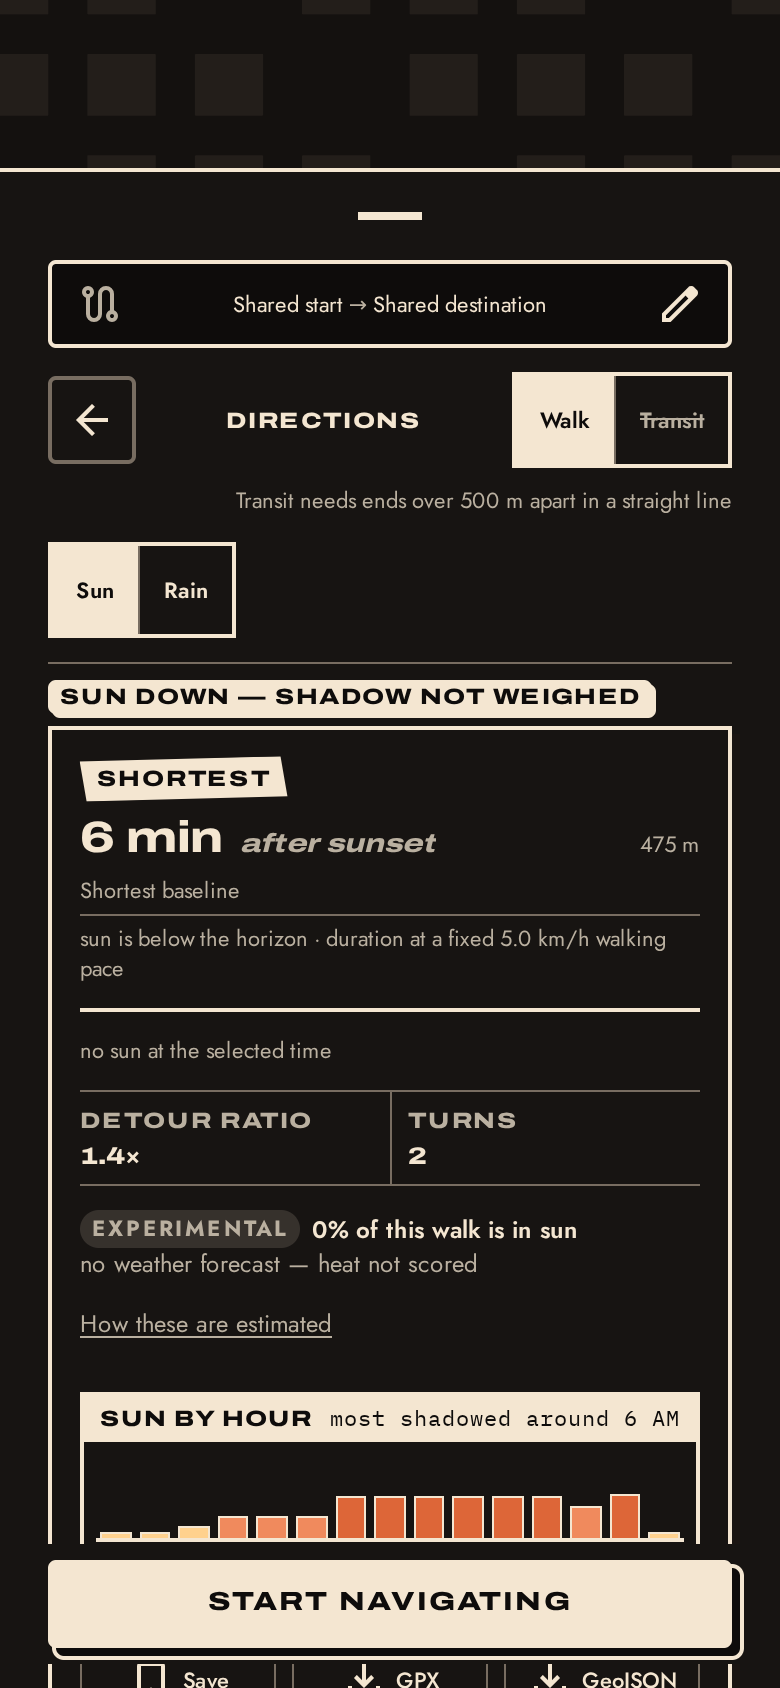
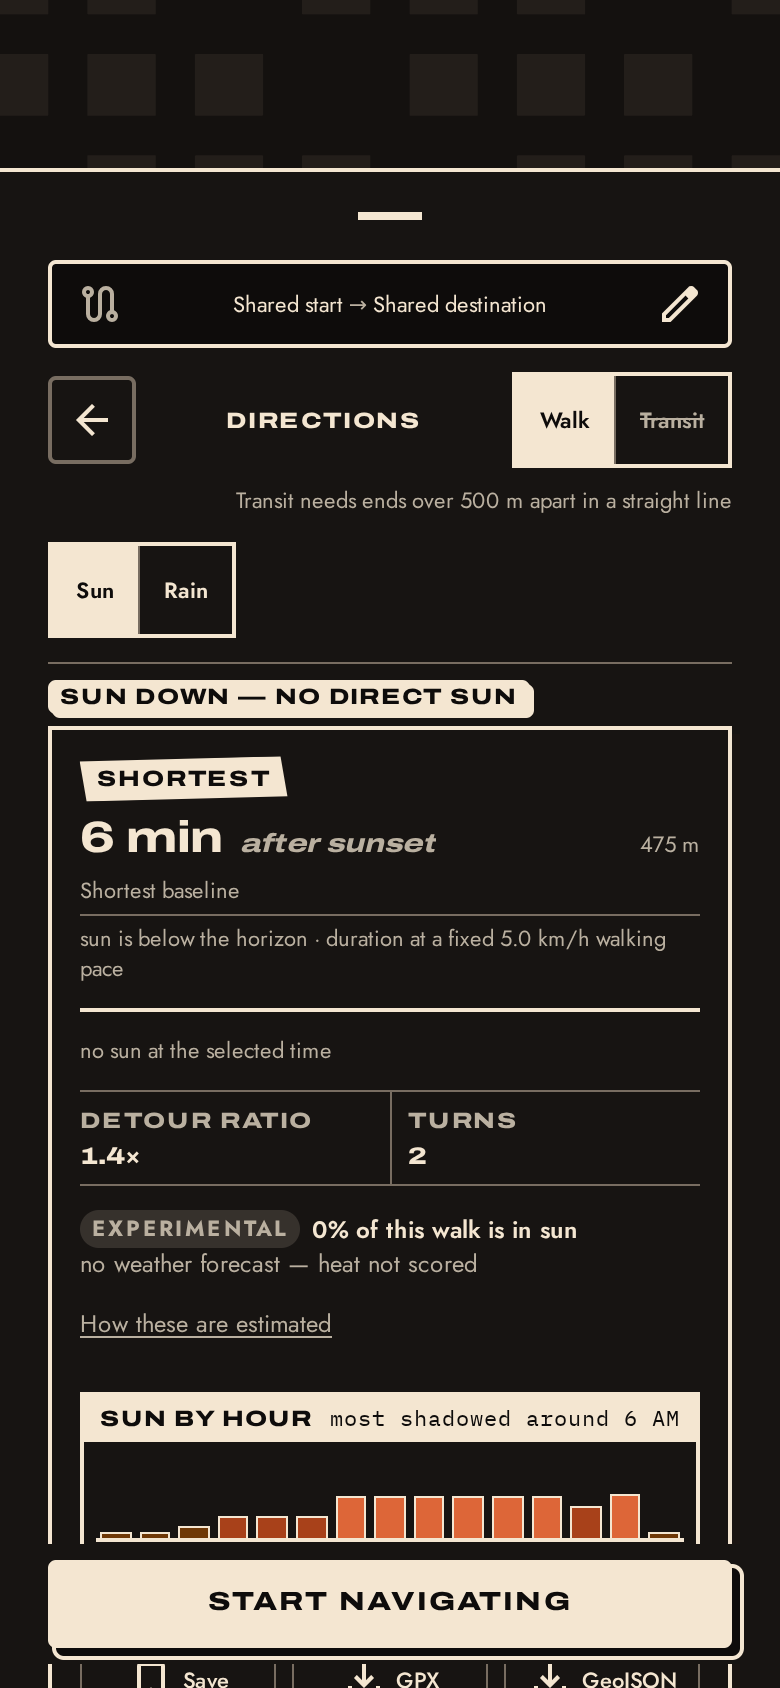
fix(design): ground the Sun down pill and keep the board's ramp legible at night
The pill no longer claims routing ignores shadow after sunset; a direct
walk's Pareto search never reads the intensity (#167). Board bars use ramp
step tokens that reverse at night, so the larger share is always the fill
with more contrast. The rain header wraps inside the desktop card, hour
buttons take an inset focus ring, and an hour without a reading says so
without the dash being read aloud.

Changed region(s): [[0.3692, 0.4005, 0.8615, 0.4313], [0.2462, 0.8934, 0.4308, 0.9242], [0.7385, 0.8934, 0.7692, 0.9242]]

diff --git a/app/components/__tests__/HourlyExposureStrip.test.tsx b/app/components/__tests__/HourlyExposureStrip.test.tsx
@@ -1,6 +1,7 @@
 /* @vitest-environment jsdom */
 import { cleanup, fireEvent, render, screen, within } from "@testing-library/react";
 import { afterEach, describe, expect, it, vi } from "vitest";
+import registryCss from "../../globals.css?raw";
 import type { HourlyExposure } from "../../hooks/useHourlyExposure";
 import type { HourlyExposureSample } from "../../lib/bestTime";
 import HourlyExposureStrip, { rampStep } from "../HourlyExposureStrip";
@@ -27,12 +28,12 @@ function strip(exposure: HourlyExposure, currentHour = 10, onPickHour = vi.fn())
 /** R6b: the hourly strip as a departures board. */
 describe("HourlyExposureStrip", () => {
   it("steps the five-step ramp by fifths of the share", () => {
-    expect(rampStep(0)).toBe("light");
-    expect(rampStep(0.19)).toBe("light");
-    expect(rampStep(0.2)).toBe("bright");
-    expect(rampStep(0.5)).toBe("base");
-    expect(rampStep(0.79)).toBe("dark");
-    expect(rampStep(1)).toBe("darker");
+    expect(rampStep(0)).toBe(1);
+    expect(rampStep(0.19)).toBe(1);
+    expect(rampStep(0.2)).toBe(2);
+    expect(rampStep(0.5)).toBe(3);
+    expect(rampStep(0.79)).toBe(4);
+    expect(rampStep(1)).toBe(5);
   });
 
   it("colours each sun bar by its ramp step and keys hours in 12-hour numerals", () => {
@@ -40,10 +41,10 @@ describe("HourlyExposureStrip", () => {
     strip({ samples, readyCount: 4, best: samples[0] });
     const bars = screen.getAllByTestId("hour-bar");
     expect(bars.map((b) => b.style.background)).toEqual([
-      "var(--color-sun-light)",
-      "var(--color-sun-base)",
-      "var(--color-sun-darker)",
-      "var(--color-sun-bright)",
+      "var(--color-sun-step-1)",
+      "var(--color-sun-step-3)",
+      "var(--color-sun-step-5)",
+      "var(--color-sun-step-2)",
     ]);
     expect(screen.getByText("Sun by hour")).toBeTruthy();
     expect(screen.getByText("most shadowed around 10 AM")).toBeTruthy();
@@ -71,7 +72,7 @@ describe("HourlyExposureStrip", () => {
     const pending = screen.getByRole("button", { name: "11 AM: unavailable for recommendation" });
     expect((pending as HTMLButtonElement).disabled).toBe(true);
     expect(pending.textContent).toContain("–");
-    expect(screen.queryByText("– not sampled")).toBeNull();
+    expect(screen.queryByText(/no reading$/)).toBeNull();
   });
 
   it("labels rain hours that have no reading once sampling ends", () => {
@@ -81,8 +82,26 @@ describe("HourlyExposureStrip", () => {
     ];
     strip({ samples, readyCount: 2, best: samples[0] });
     expect(screen.getAllByText("Rain shelter by hour")).toHaveLength(2); // header and legend
-    expect(screen.getAllByTestId("hour-bar")[0].style.background).toBe("var(--color-rain-dark)");
+    expect(screen.getAllByTestId("hour-bar")[0].style.background).toBe("var(--color-rain-step-4)");
     expect(screen.getByRole("button", { name: "11 AM: unavailable for recommendation" })).toBeTruthy();
-    expect(screen.getByText("– not sampled")).toBeTruthy();
+    expect(screen.getByText(/no reading$/)).toBeTruthy();
+  });
+});
+
+describe("ramp step tokens", () => {
+  function steps(block: string, meaning: "sun" | "rain"): string[] {
+    return [1, 2, 3, 4, 5].map((n) => {
+      const m = block.match(new RegExp(`--color-${meaning}-step-${n}:\\s*var\\(--color-${meaning}-(\\w+)\\)`));
+      return m?.[1] ?? "missing";
+    });
+  }
+  const night = registryCss.slice(registryCss.indexOf('html[data-theme="night"]'));
+  const day = registryCss.slice(0, registryCss.indexOf('html[data-theme="night"]'));
+
+  it("run light to darker by day and reverse at night, so more share is more contrast", () => {
+    for (const meaning of ["sun", "rain"] as const) {
+      expect(steps(day, meaning)).toEqual(["light", "bright", "base", "dark", "darker"]);
+      expect(steps(night, meaning)).toEqual(["darker", "dark", "base", "bright", "light"]);
+    }
   });
 });

diff --git a/app/components/HourlyExposureStrip.tsx b/app/components/HourlyExposureStrip.tsx
@@ -7,11 +7,9 @@ interface HourlyExposureStripProps {
   onPickHour: (when: Date) => void;
 }
 
-const RAMP = ["light", "bright", "base", "dark", "darker"] as const;
-
-/** The five-step ramp entry for a 0–1 share: fifths, light to darker. */
-export function rampStep(share: number): (typeof RAMP)[number] {
-  return RAMP[Math.min(RAMP.length - 1, Math.max(0, Math.floor(share * RAMP.length)))];
+/** The five-step ramp step (1–5) for a 0–1 share, by fifths. */
+export function rampStep(share: number): number {
+  return Math.min(5, Math.max(1, Math.floor(share * 5) + 1));
 }
 
 /** 12-hour numeral for a board key; the meridiem row says AM or PM. */
@@ -27,8 +25,9 @@ function hourKey(hour: number): string {
  * Bars are drawn as *sun*, not shadow: the thing being avoided is the thing worth
  * seeing, and a short bar reading as a good hour matches how the rest of the app
  * talks about exposure. Each bar is a step of the sun (or rain) ramp by its share,
- * keylined in ink so a pale step still holds against the panel. Hours not yet or
- * never sampled show a dash rather than a zero the field never measured.
+ * keylined in ink so a pale step still holds against the panel. Hours without a
+ * reading (still sampling, or none came back) show a dash rather than a zero the
+ * field never measured.
  */
 export default function HourlyExposureStrip({
   exposure,
@@ -48,12 +47,12 @@ export default function HourlyExposureStrip({
         style={{ background: "var(--color-ink)", color: "var(--color-on-ink)", fontSize: "var(--text-caption)" }}
       >
         <span
-          className="shrink-0 font-extrabold uppercase tracking-wider"
+          className="font-extrabold uppercase tracking-wider"
           style={{ fontFamily: "var(--font-label)" }}
         >
           {rain ? "Rain shelter by hour" : "Sun by hour"}
         </span>
-        <span aria-live="polite" className="text-right" style={{ fontFamily: "var(--font-mono)" }}>
+        <span aria-live="polite" className="min-w-0 text-right" style={{ fontFamily: "var(--font-mono)" }}>
           {checking
             ? "checking…"
             : best
@@ -83,7 +82,7 @@ export default function HourlyExposureStrip({
               disabled={!ready}
               // The whole column is the target: 44px of bar plus the key, of which
               // only the bar is inked — the app is used one-handed, outdoors.
-              className="flex min-w-0 flex-col items-stretch"
+              className="flex min-w-0 flex-col items-stretch focus-visible:outline-2 focus-visible:-outline-offset-2 focus-visible:outline-current"
               aria-label={
                 ready
                   ? rain
@@ -106,7 +105,9 @@ export default function HourlyExposureStrip({
                       // A fully shadowed hour still gets a sliver, so the bar reads as a
                       // measurement rather than a gap in the data.
                       height: `${Math.max(6, share * 100)}%`,
-                      background: `var(--color-${rain ? "rain" : "sun"}-${rampStep(share)})`,
+                      // Step tokens run light→darker by day and darker→light at night,
+                      // so the larger share is always the higher-contrast fill.
+                      background: `var(--color-${rain ? "rain" : "sun"}-step-${rampStep(share)})`,
                       borderStyle: "solid",
                       borderWidth: "1px 1px 0",
                       borderColor: "var(--color-ink)",
@@ -143,7 +144,7 @@ export default function HourlyExposureStrip({
 
       {anyUnsampled && (
         <div className="px-2 pb-1" style={{ fontSize: "var(--text-caption)", color: "var(--color-ink-muted)" }}>
-          – not sampled
+          <span aria-hidden="true">– </span>no reading
         </div>
       )}
     </div>

diff --git a/app/globals.css b/app/globals.css
@@ -76,6 +76,20 @@
   --color-danger-dark: #a91c25;
   --color-danger-darker: #5f0c17;
 
+  /* Ramp steps for magnitude (the hourly board): 1 is the smallest share. By day
+     they run light→darker; the night block reverses them, so the larger share is
+     always the fill with more contrast against the panel. */
+  --color-sun-step-1: var(--color-sun-light);
+  --color-sun-step-2: var(--color-sun-bright);
+  --color-sun-step-3: var(--color-sun-base);
+  --color-sun-step-4: var(--color-sun-dark);
+  --color-sun-step-5: var(--color-sun-darker);
+  --color-rain-step-1: var(--color-rain-light);
+  --color-rain-step-2: var(--color-rain-bright);
+  --color-rain-step-3: var(--color-rain-base);
+  --color-rain-step-4: var(--color-rain-dark);
+  --color-rain-step-5: var(--color-rain-darker);
+
   /* Existing semantic utilities now resolve to 2.0 text/fill steps. */
   --color-route: #1b1512;
   --color-route-strong: #1b1512;
@@ -267,6 +281,16 @@ html[data-theme="night"] {
   --color-on-canopy: #0e0c0b;
   --color-on-rain: #0e0c0b;
   --color-on-danger: #0e0c0b;
+  --color-sun-step-1: var(--color-sun-darker);
+  --color-sun-step-2: var(--color-sun-dark);
+  --color-sun-step-3: var(--color-sun-base);
+  --color-sun-step-4: var(--color-sun-bright);
+  --color-sun-step-5: var(--color-sun-light);
+  --color-rain-step-1: var(--color-rain-darker);
+  --color-rain-step-2: var(--color-rain-dark);
+  --color-rain-step-3: var(--color-rain-base);
+  --color-rain-step-4: var(--color-rain-bright);
+  --color-rain-step-5: var(--color-rain-light);
   --shadow-hard-1: 2px 2px 0 #f4e6d1;
   --shadow-hard-2: 4px 4px 0 #f4e6d1;
   --shadow-sm: 2px 2px 0 #f4e6d1;

diff --git a/app/components/SolarPill.tsx b/app/components/SolarPill.tsx
@@ -10,9 +10,9 @@ import Tag from "./ui/Tag";
  * with each other about the same number.
  *
  * `afterSunset` is the route card's 0° rule (`routeAfterSunset`), the same one
- * the theme and the timeline's Sun down cell use. Below the horizon routing
- * scales shadow's weight by an intensity of zero, so the pill says the sun is
- * down instead of calling it low.
+ * the theme and the timeline's Sun down cell use, so below the horizon the pill
+ * says the sun is down instead of calling it low. It claims only that: a direct
+ * walk's Pareto search does not read the intensity at all.
  */
 const SolarPill = memo(function SolarPill({
   intensity,
@@ -22,7 +22,7 @@ const SolarPill = memo(function SolarPill({
   afterSunset?: boolean;
 }) {
   if (afterSunset) {
-    return <Tag className="self-start">Sun down — shadow not weighed</Tag>;
+    return <Tag className="self-start">Sun down — no direct sun</Tag>;
   }
   if (intensity < 0.15) {
     return (

diff --git a/app/components/__tests__/DirectionsPanel.test.tsx b/app/components/__tests__/DirectionsPanel.test.tsx
@@ -283,7 +283,7 @@ describe("DirectionsPanel — solar pill after sunset (R6b)", () => {
 
   it("says the sun is down at 23:00, on the route card's 0° rule", () => {
     renderAt("2026-06-21T03:00:00Z", 0);
-    expect(screen.getByText("Sun down — shadow not weighed")).toBeTruthy();
+    expect(screen.getByText("Sun down — no direct sun")).toBeTruthy();
     expect(screen.queryByText(/Low sun/)).toBeNull();
   });
 

diff --git a/app/components/__tests__/SolarPill.test.tsx b/app/components/__tests__/SolarPill.test.tsx
@@ -12,7 +12,7 @@ afterEach(cleanup);
 describe("SolarPill", () => {
   it("says the sun is down after sunset, whatever the intensity", () => {
     render(<SolarPill intensity={0} afterSunset />);
-    expect(screen.getByText("Sun down — shadow not weighed")).toBeTruthy();
+    expect(screen.getByText("Sun down — no direct sun")).toBeTruthy();
     expect(screen.queryByText(/Low sun/)).toBeNull();
   });
 
